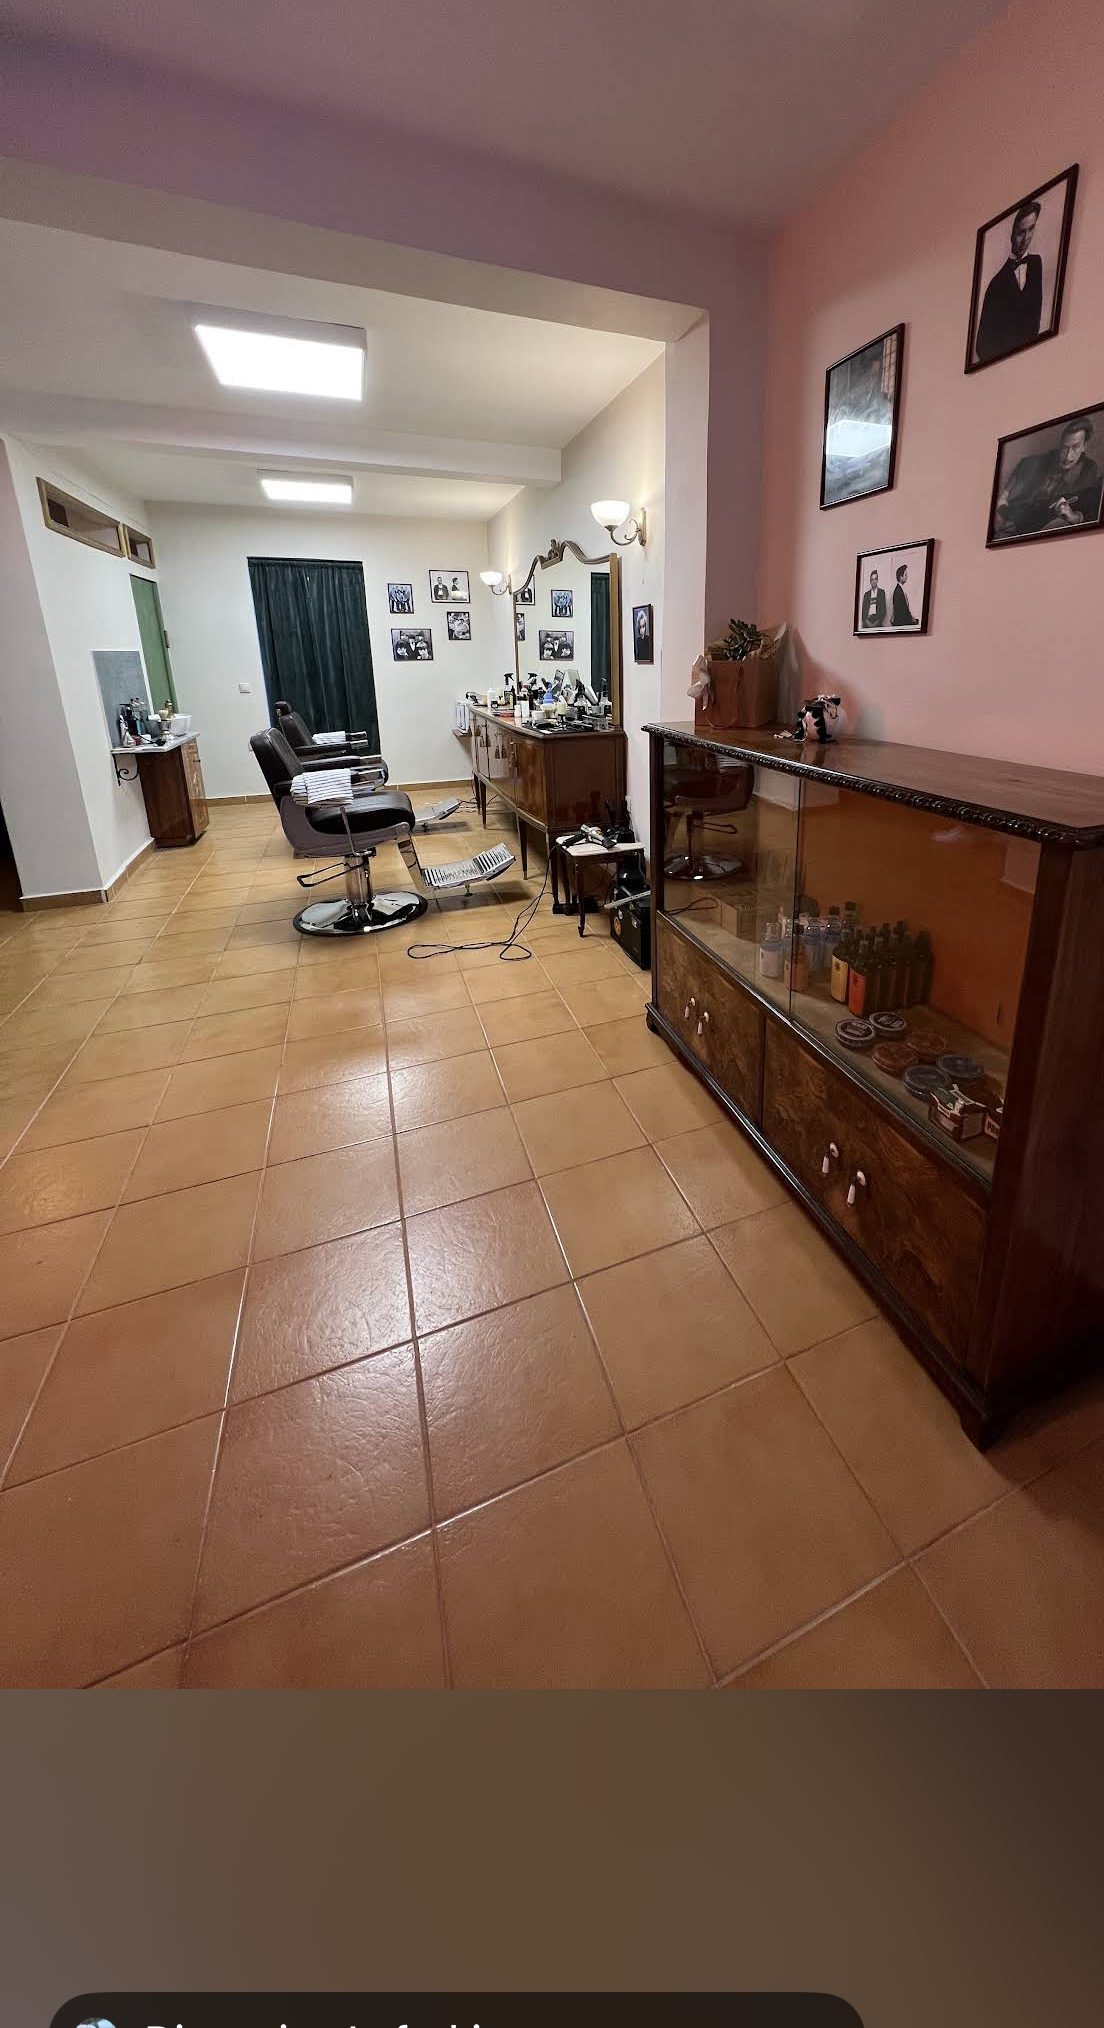
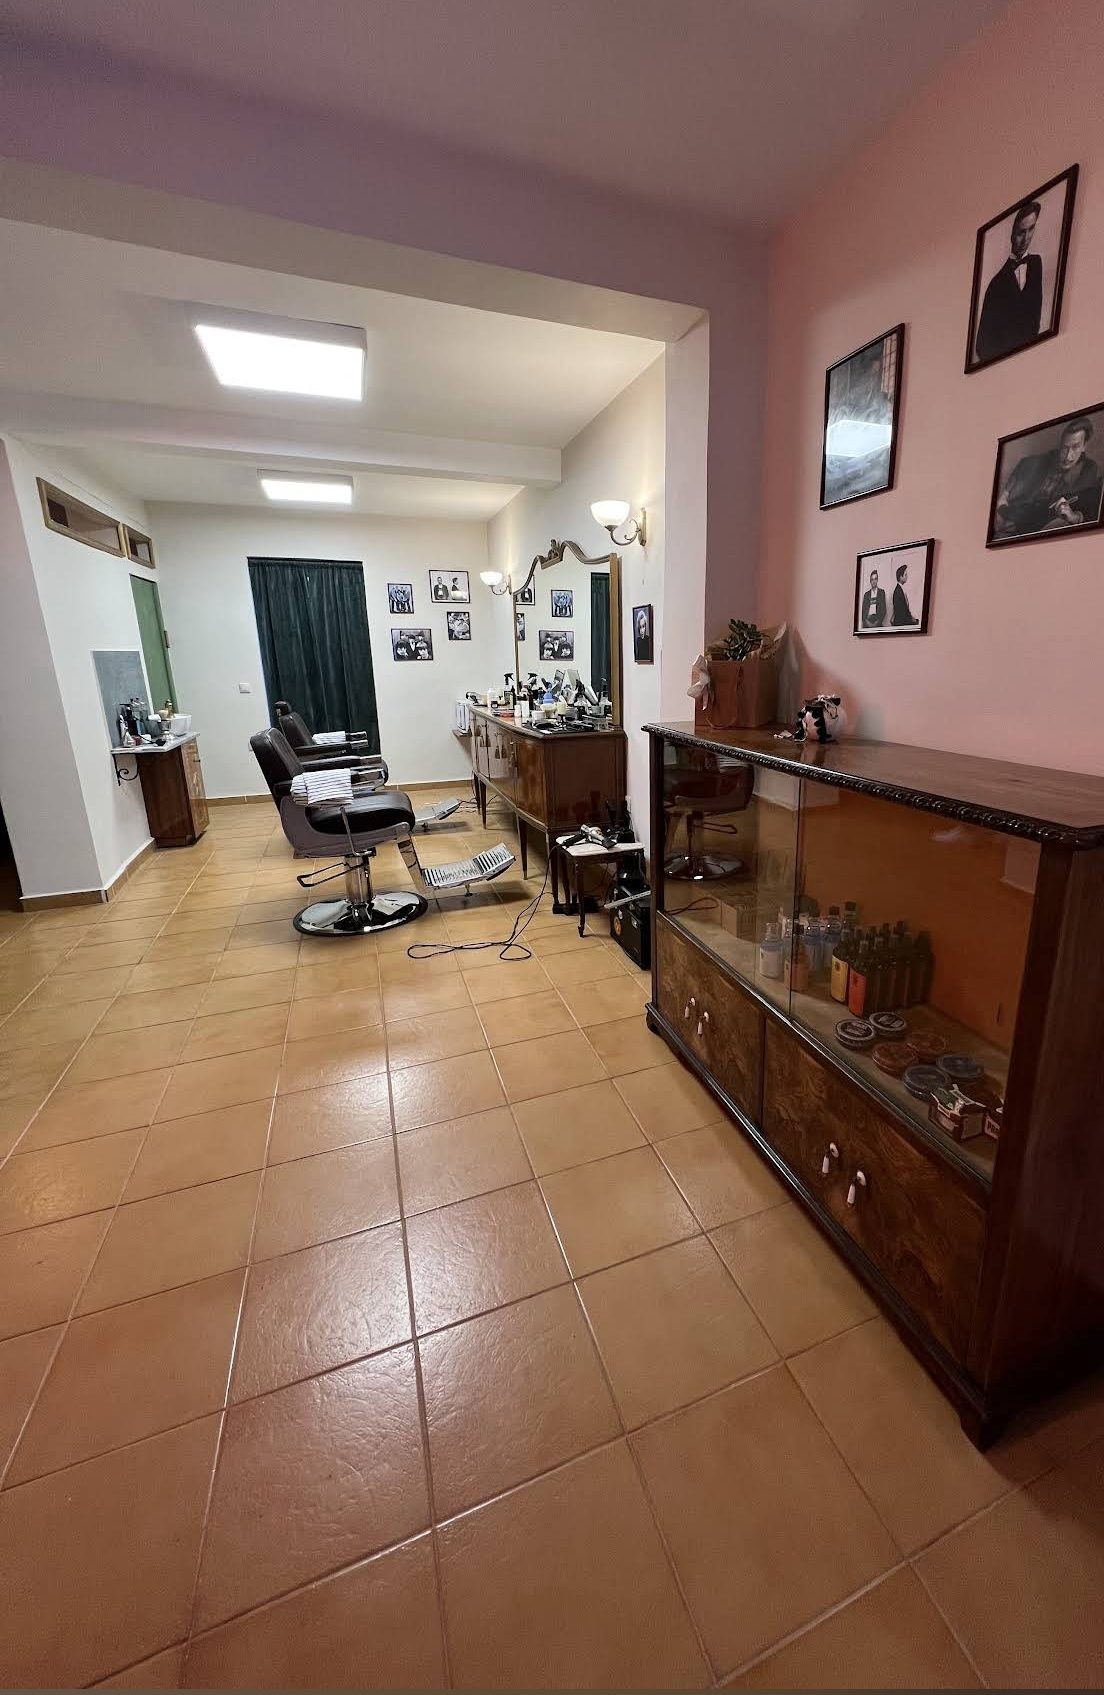
Redesign website

diff --git a/underdogs-site/index.html b/underdogs-site/index.html
@@ -1,4 +1,4 @@
-<!DOCTYPE html>
+c:\Users\georg\Downloads\underdogs-site<!DOCTYPE html>
 <html lang="el">
 <head>
 <meta charset="UTF-8">
@@ -187,21 +187,27 @@
     <div class="gallery-grid stagger" id="galleryGrid">
       <figure class="gallery-item span-tall">
         <img src="images/lounge-neon.jpg" alt="Καναπές, κιθάρα και νέον 'Bad Habits' στο The Underdogs" loading="lazy" width="1284" height="1597">
+        <span class="gallery-cap i18n" data-el="Το σαλόνι" data-en="The lounge">Το σαλόνι</span>
       </figure>
       <figure class="gallery-item">
         <img src="images/shop-haircut.jpg" alt="Barber κόβει μαλλιά πελάτη στο The Underdogs" loading="lazy" width="1104" height="2028">
+        <span class="gallery-cap i18n" data-el="Στην καρέκλα" data-en="In the chair">Στην καρέκλα</span>
       </figure>
       <figure class="gallery-item">
         <img src="images/real-1.jpg" alt="Ο χώρος του The Underdogs Barbershop" loading="lazy" width="1800" height="1350">
+        <span class="gallery-cap i18n" data-el="Ο χώρος" data-en="The shop">Ο χώρος</span>
       </figure>
       <figure class="gallery-item span-wide">
         <img src="images/real-3.jpg" alt="Λεπτομέρεια από το εσωτερικό του The Underdogs" loading="lazy" width="1800" height="1350">
+        <span class="gallery-cap i18n" data-el="Λεπτομέρειες" data-en="Details">Λεπτομέρειες</span>
       </figure>
       <figure class="gallery-item">
         <img src="images/lounge-coatrack.jpg" alt="Vintage καπελιέρα στο The Underdogs" loading="lazy" width="1104" height="2375">
+        <span class="gallery-cap i18n" data-el="Vintage πινελιές" data-en="Vintage touches">Vintage πινελιές</span>
       </figure>
       <figure class="gallery-item">
         <img src="images/shop-classic.jpg" alt="Vintage καρέκλες στο The Underdogs" loading="lazy" width="1104" height="2028">
+        <span class="gallery-cap i18n" data-el="Οι καρέκλες" data-en="The chairs">Οι καρέκλες</span>
       </figure>
     </div>
   </div>

diff --git a/underdogs-site/js/script.js b/underdogs-site/js/script.js
@@ -90,4 +90,40 @@ document.addEventListener('DOMContentLoaded', () => {
   lightboxClose.addEventListener('click', closeLightbox);
   lightbox.addEventListener('click', (e) => { if (e.target === lightbox) closeLightbox(); });
   document.addEventListener('keydown', (e) => { if (e.key === 'Escape') closeLightbox(); });
+
+  /* ---------- 6) Active nav link ανάλογα με την ενότητα στην οθόνη ---------- */
+  const navLinks = document.querySelectorAll('.main-nav a');
+  const sections = Array.from(navLinks)
+    .map(link => document.querySelector(link.getAttribute('href')))
+    .filter(Boolean);
+
+  if ('IntersectionObserver' in window && sections.length){
+    const navObserver = new IntersectionObserver((entries) => {
+      entries.forEach(entry => {
+        if (entry.isIntersecting){
+          const id = '#' + entry.target.id;
+          navLinks.forEach(link => {
+            link.classList.toggle('active', link.getAttribute('href') === id);
+          });
+        }
+      });
+    }, { rootMargin: '-45% 0px -50% 0px', threshold: 0 });
+
+    sections.forEach(sec => navObserver.observe(sec));
+  }
+
+  /* ---------- 7) Ελαφρύ parallax στη hero φωτογραφία ---------- */
+  const heroBg = document.querySelector('.hero-bg');
+  if (heroBg && !prefersReducedMotion){
+    let ticking = false;
+    window.addEventListener('scroll', () => {
+      if (ticking) return;
+      ticking = true;
+      requestAnimationFrame(() => {
+        const offset = Math.min(window.scrollY * 0.08, 60);
+        heroBg.style.backgroundPositionY = `calc(30% + ${offset}px)`;
+        ticking = false;
+      });
+    }, { passive: true });
+  }
 });

diff --git a/underdogs-site/css/style.css b/underdogs-site/css/style.css
@@ -12,9 +12,10 @@
   --muted:     #a89b82;
   --red:       #9c2f26;
   --red-glow:  #ff5847;
-  --brass:     #cfa94e;
-  --brass-soft:#e9cd87;
+  --brass:     #d4af5a;
+  --brass-soft:#f0d999;
   --line:      #382f22;
+  --shadow-lg: 0 30px 60px -20px rgba(0,0,0,.65);
 
   --font-display: 'Oswald', sans-serif;
   --font-script:  'Permanent Marker', cursive;
@@ -197,6 +198,8 @@ ul{list-style:none; margin:0; padding:0;}
 }
 .main-nav a:hover::after{ width:100%; }
 .main-nav a:hover{color:var(--brass-soft);}
+.main-nav a.active{ color:var(--brass-soft); }
+.main-nav a.active::after{ width:100%; }
 
 .header-actions{display:flex; align-items:center; gap:14px;}
 .lang-toggle{
@@ -253,6 +256,8 @@ ul{list-style:none; margin:0; padding:0;}
   background-position:center 30%;
   transform:scale(1.08);
   animation:heroZoom 18s ease-out forwards;
+  transition:background-position .1s linear;
+  will-change:background-position;
 }
 @keyframes heroZoom{
   from{ transform:scale(1.14); }
@@ -452,6 +457,16 @@ ul{list-style:none; margin:0; padding:0;}
 }
 .gallery-item:hover::after{ opacity:1; }
 .gallery-item:hover img{ transform:scale(1.06); filter:saturate(1.15); }
+.gallery-cap{
+  position:absolute; left:14px; bottom:12px; z-index:1;
+  font-family:var(--font-mono);
+  font-size:.72rem;
+  letter-spacing:.04em;
+  color:var(--brass-soft);
+  opacity:0; transform:translateY(6px);
+  transition:opacity .3s ease, transform .3s ease;
+}
+.gallery-item:hover .gallery-cap{ opacity:1; transform:translateY(0); }
 .gallery-item{ grid-column:span 2; grid-row:span 2; }
 .gallery-item.span-tall{ grid-row:span 3; }
 .gallery-item.span-wide{ grid-column:span 2; }
